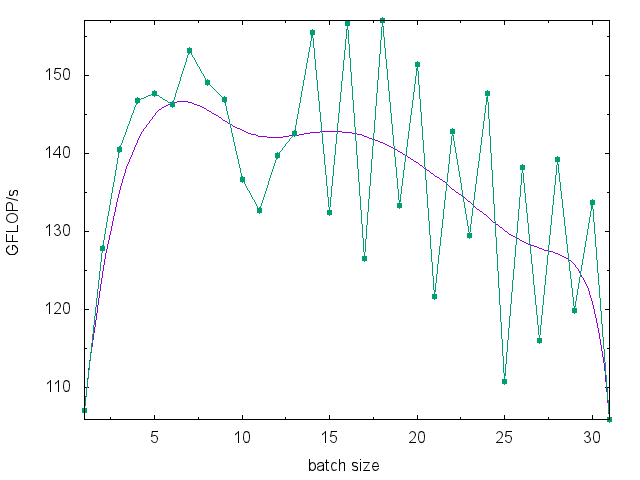
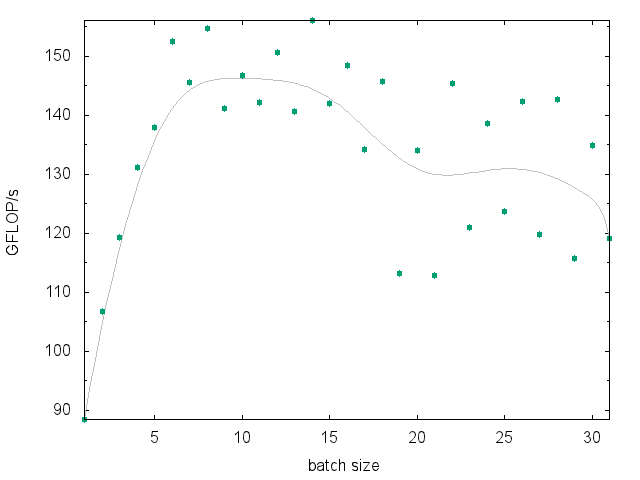
Updated README.md (performance plot, and a few words about the host system). Adjusted the default problem size of the benchmark driver program.

diff --git a/samples/multi-dgemm/multi-dgemm.cpp b/samples/multi-dgemm/multi-dgemm.cpp
@@ -90,7 +90,7 @@ LIBXSTREAM_EXPORT void process(int size, int nn, const size_t* idata,
 int main(int argc, char* argv[])
 {
   try {
-    const int nitems = std::max(1 < argc ? std::atoi(argv[1]) : 32, 0);
+    const int nitems = std::max(1 < argc ? std::atoi(argv[1]) : 60, 0);
     const int nbatch = std::max(2 < argc ? std::atoi(argv[2]) : 6, 1);
     const int nstreams = std::min(std::max(3 < argc ? std::atoi(argv[3]) : 2, 0), LIBXSTREAM_MAX_STREAMS);
 

diff --git a/README.md b/README.md
@@ -81,9 +81,11 @@ Implementation
 ==============
 The library's implementation allows queuing work from multiple host threads in a thread-safe manner and without oversubscribing the device. The actual implementation vehicle can be configured using a [configuration header](include/libxstream_config.h). Currently Intel's Language Extensions for Offload (LEO) are used to perform asynchronous execution and data transfers using signal/wait clauses. Other mechanisms can be implemented e.g., hStreams or COI (both are part of the Intel Manycore Platform Software Stack), or offload directives as specified by OpenMP 4.0.
 
+The current implementation is falling back to host execution in cases where no coprocessor is present, or when the executable was not built using the Intel Compiler. However, there is no attempt (yet) to exploit the parallelism available on the host system.
+
 Performance
 ===========
-The [multi-dgemm](samples/multi-dgemm) sample code is the implementation of a benchmark (beside of illustrating the use of LIBXSTREAM). The shown performance is not meant to be "the best case". Instead, the performance is reproduced by a program constructing a series of matrix-matrix multiplications of varying problem sizes with no attempt to avoid the implied performance penalties (see underneath the graph for more details).
+The [multi-dgemm](samples/multi-dgemm) sample code is the implementation of a benchmark (beside of illustrating the use of LIBXSTREAM). The shown performance is not meant to be "the best case". Instead, the performance is reproduced by a program constructing a series of matrix-matrix multiplications of varying problem sizes with no attempt to avoid the implied performance penalties (see underneath the graph for more details). A reasonable host system and benchmark implementation is likely able to outperform below results (no transfers, etc.).
 
 ![performance graph](samples/multi-dgemm/plot.png)
 > This performance graph has been created for a single Intel Xeon Phi 7120 Coprocessor card by running the [benchmark.sh](samples/multi-dgemm/benchmark.sh) on the host system. The script varies the number of matrix-matrix multiplications queued at once. The program is rather a stress-test than a benchmark since there is no attempt to avoid the performance penalties as mentioned below. The plot shows ~155 GFLOPS/s even with a finer work granularity (smaller batch size).
